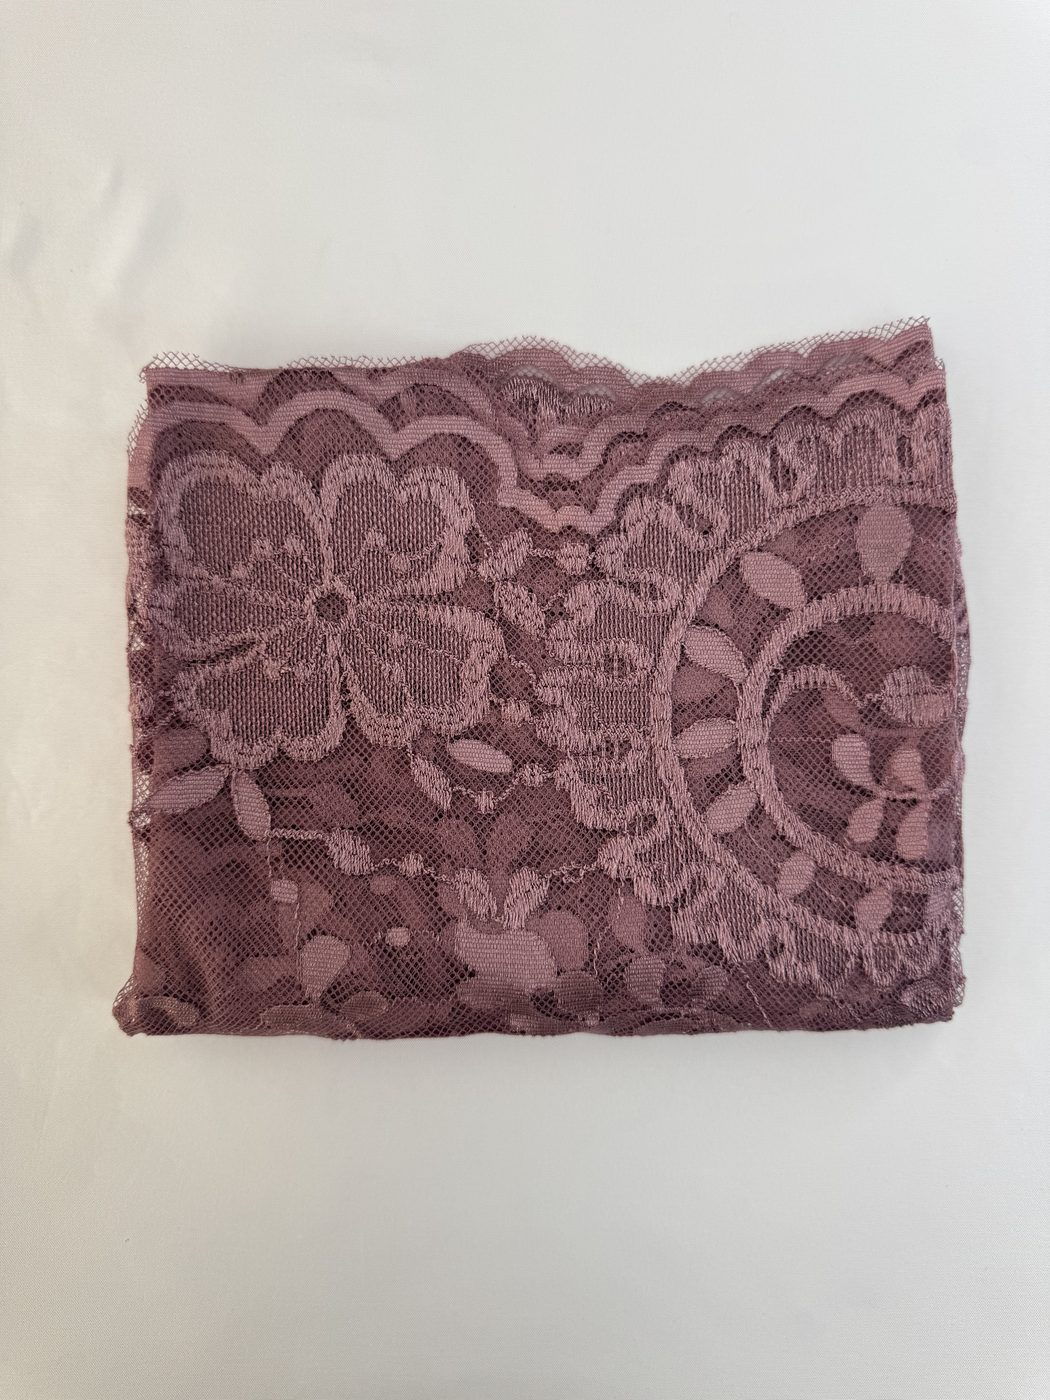
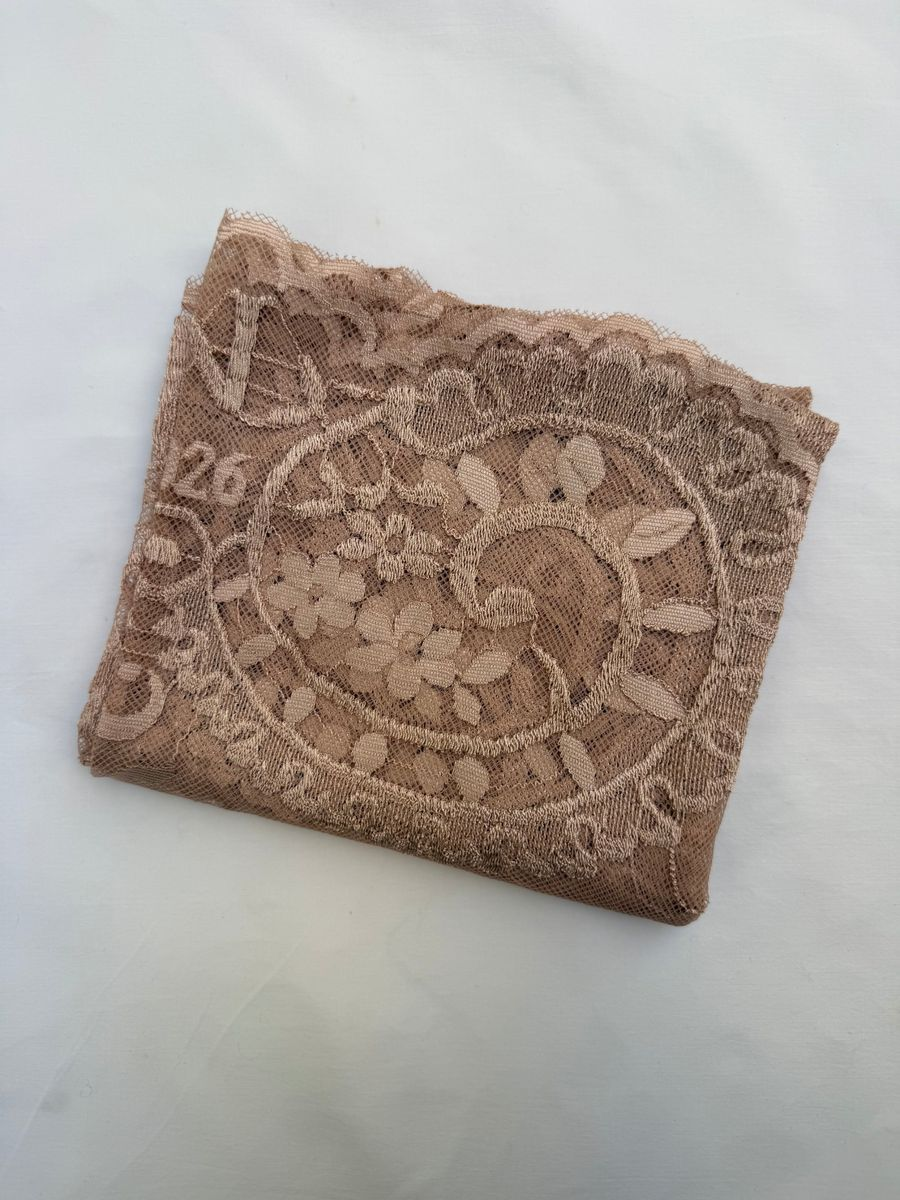
seccion-2b ester

diff --git a/index.html b/index.html
@@ -754,13 +754,12 @@ const SECCIONES_AGOTADAS = {
 const UNA_FOTO = {
   "varios/economica-6":true,
   "varios/economica-14":true,
-  "varios/ester":true,
   "capa-nina/capa-nina":true,
 };
 // Secciones con número fijo de imágenes de carrusel (si no, hasta 3)
 const CARRUSEL_FIJO = {
   "capa-nina/capa-nina":[1],
-  "varios/ester":[1],
+  "varios/ester":[1,3],
 };
 // Secciones que se abren directo desde el inicio (al dar "atrás" regresan al inicio)
 const SEC_DESDE_INICIO = {
